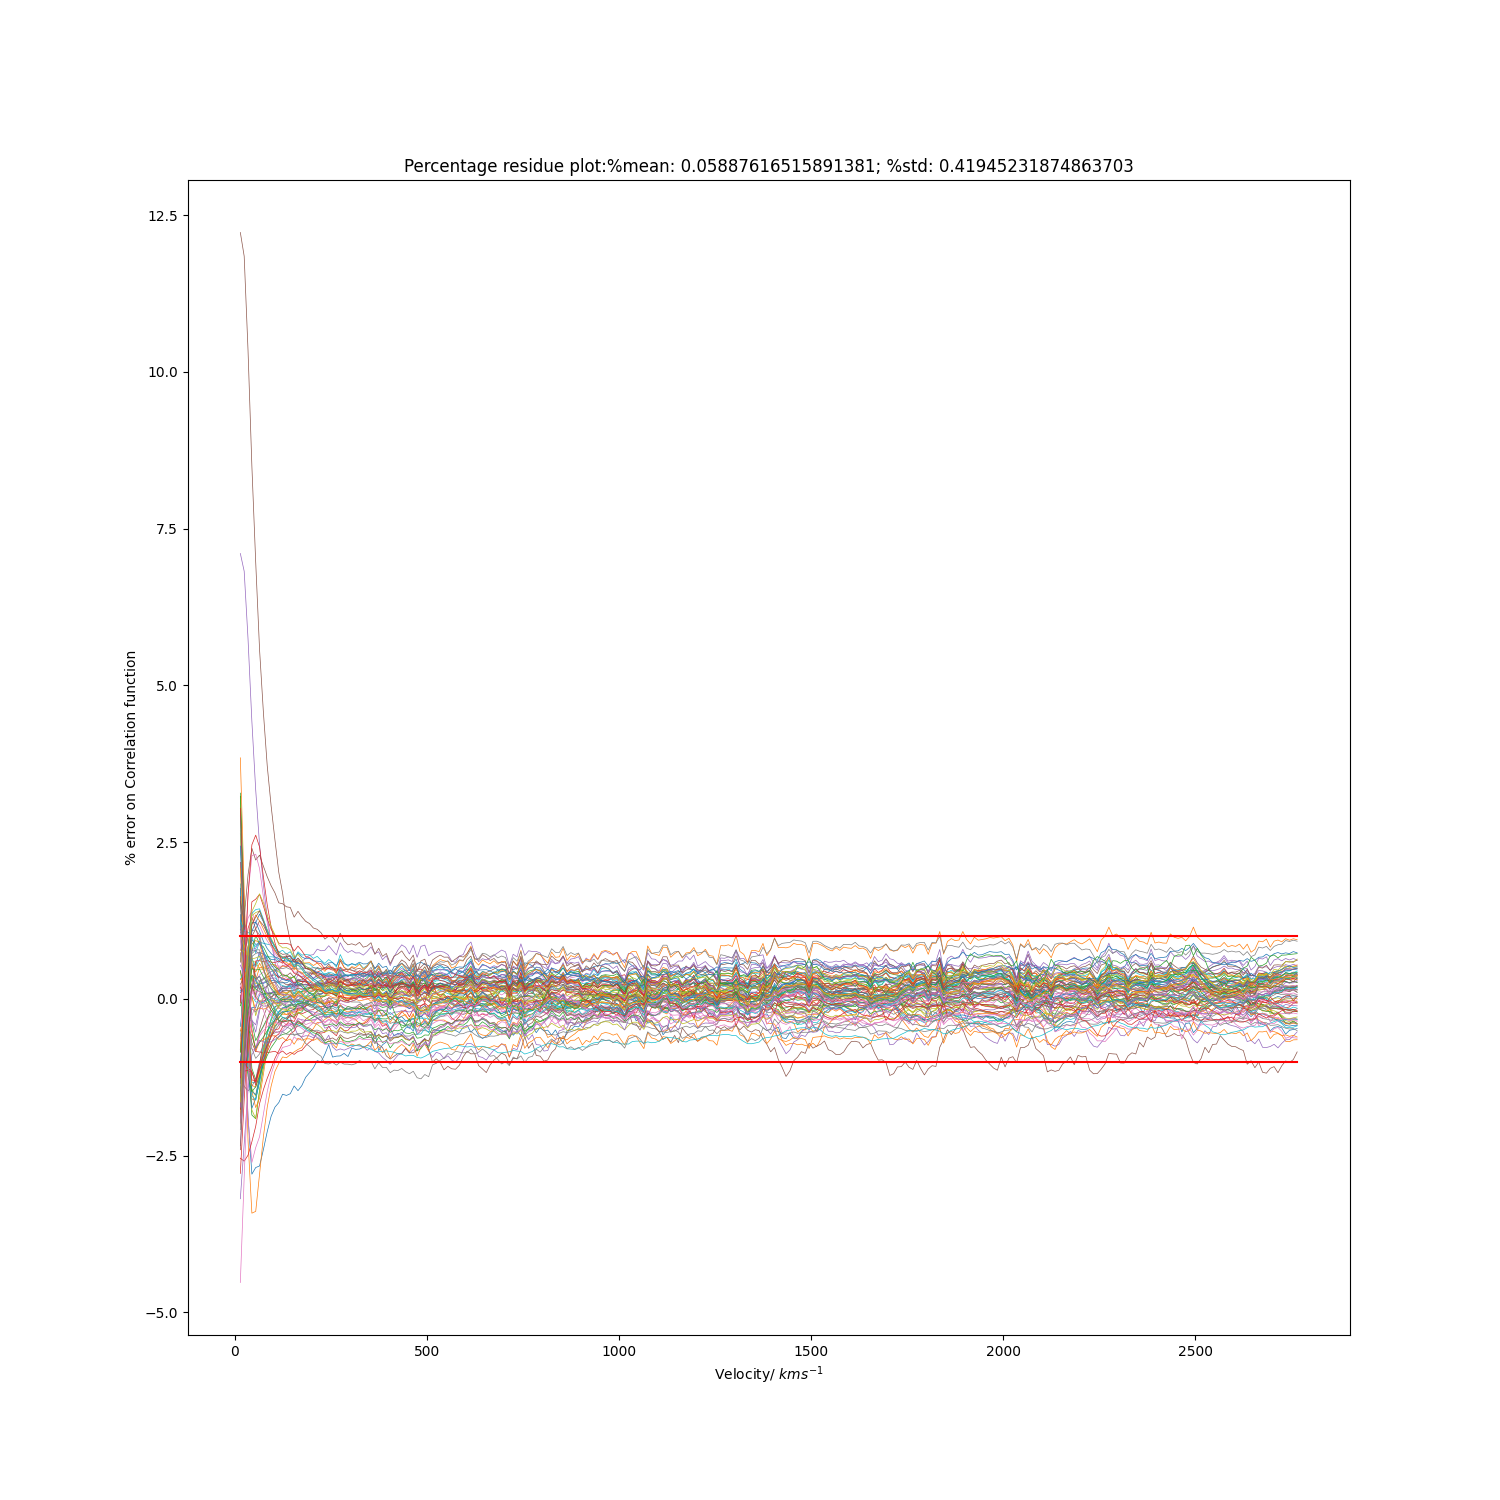
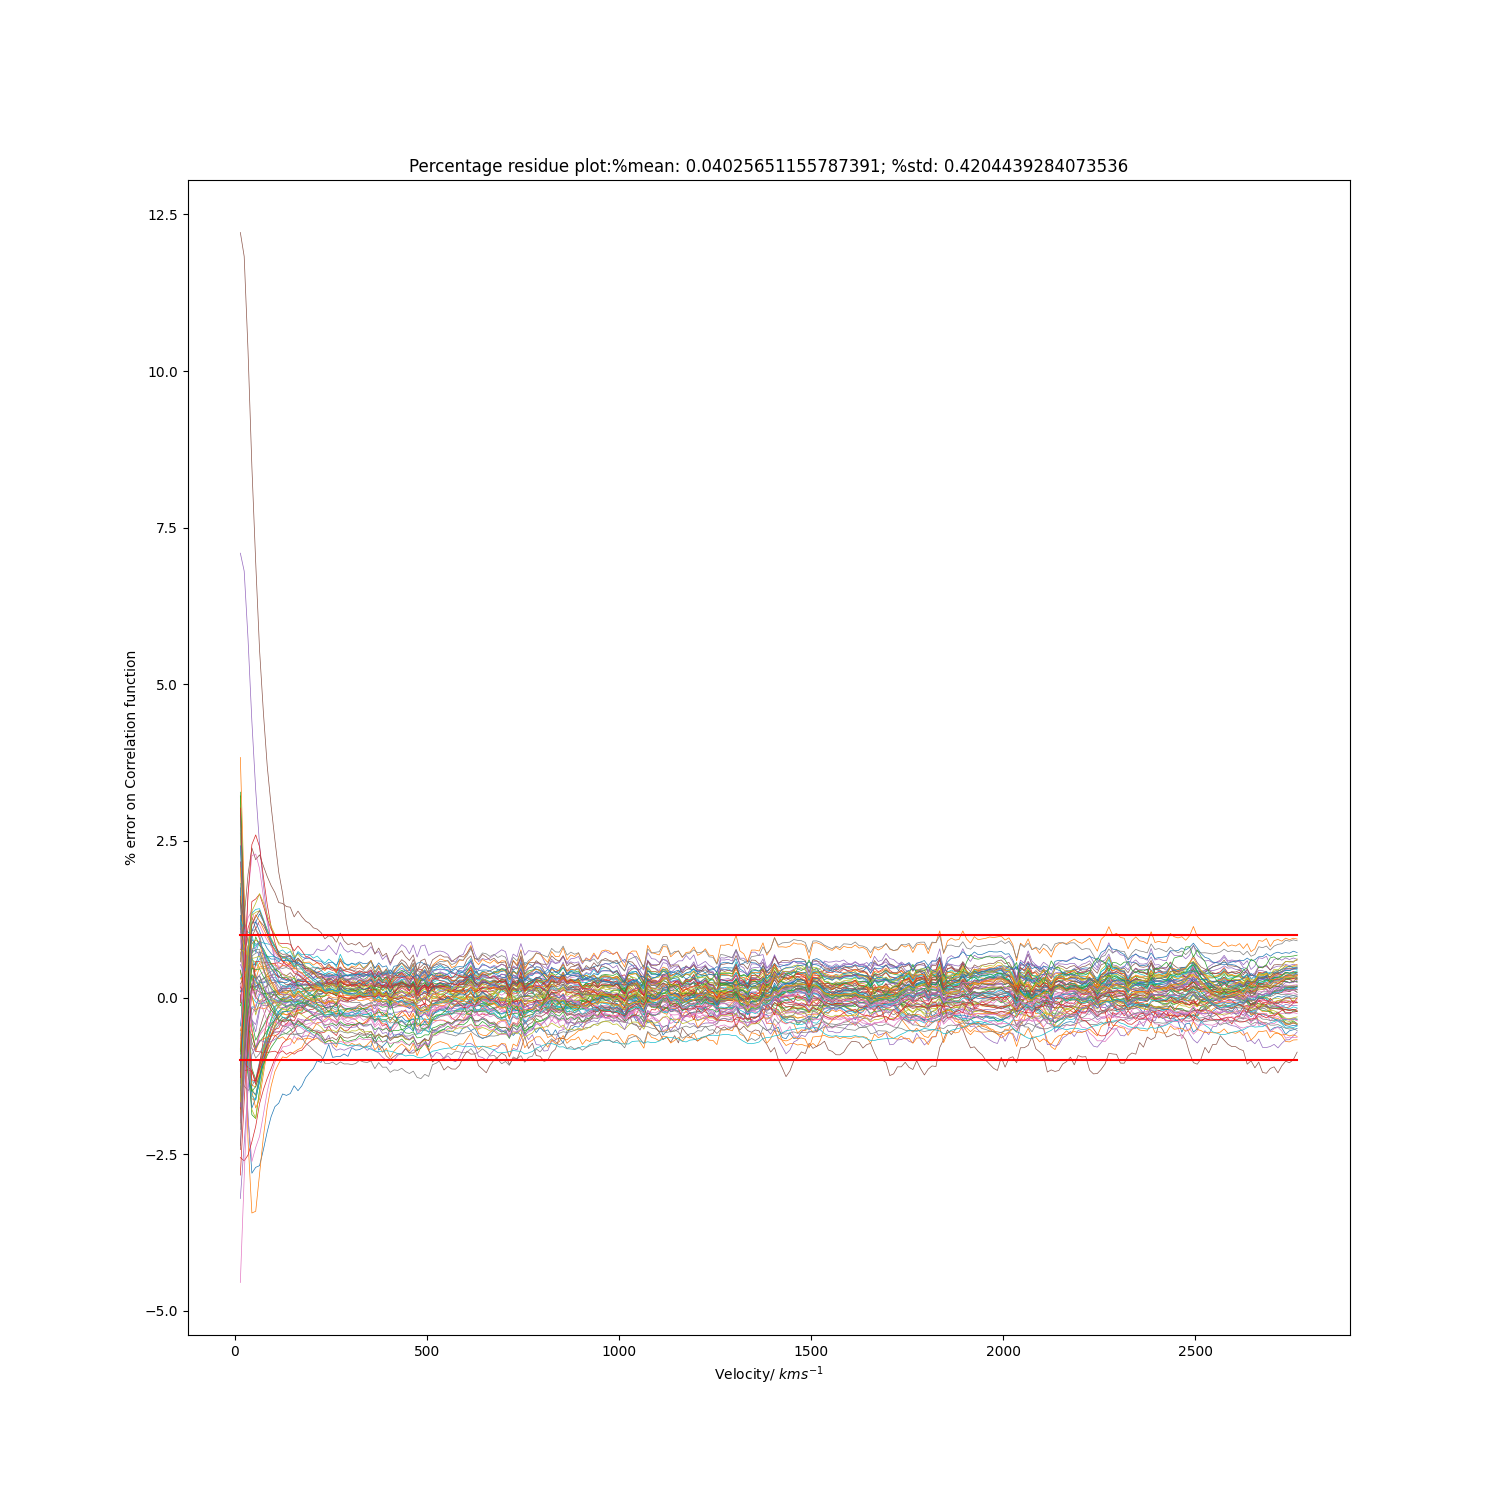
best result plots leaky_relu l2+adamw

Changed region(s): [[0.1533, 0.6133, 0.8587, 0.736], [0.276, 0.092, 0.7667, 0.1227]]

diff --git a/igm_emulator/emulator/emulator_train.py b/igm_emulator/emulator/emulator_train.py
@@ -88,8 +88,8 @@ if __name__ == "__main__":
             # optimizing loss by update function
             params, opt_state, batch_loss, grads = update(params, opt_state, X_train, Y_train, optimizer)
 
-            #if step % 100 == 0:
-                #plot_params(params)
+            if step % 100 == 0:
+                plot_params(params)
 
             # compute training & validation loss at the end of the epoch
             l = loss_fn(params, X_vali, Y_vali)

diff --git a/igm_emulator/emulator/haiku_custom_forward.py b/igm_emulator/emulator/haiku_custom_forward.py
@@ -67,7 +67,7 @@ def loss_fn(params, x, y, l2=0.0001):
     for module in sorted(params):
         leaves.append(jnp.asarray(jax.tree_leaves(params[module]['w'])))
     regularization =  l2 * sum(jnp.sum(jnp.square(p)) for p in leaves)
-    return jnp.mean((custom_forward.apply(params, x) - y) ** 2) #+ regularization
+    return jnp.mean((custom_forward.apply(params, x) - y) ** 2) + regularization
 
 @jax.jit
 def accuracy(params, x, y, meanY, stdY):

diff --git a/igm_emulator/emulator/plotVis.py b/igm_emulator/emulator/plotVis.py
@@ -14,7 +14,7 @@ dir_lhs = '/home/zhenyujin/igm_emulator/igm_emulator/emulator/GRID/'
 num = '_training_768'
 Y = dill.load(open(dir_lhs + f'{zstr}_model{num}.p', 'rb'))
 out = Y.shape[1]
-z= f'{zstr}_768_leaky_relu_adamw'
+z= f'{zstr}_768_leaky_relu_l2+adamw'
 
 in_path_hdf5 = f'/mnt/quasar2/mawolfson/correlation_funct/temp_gamma/final/{zstr}/final_135/'
 
